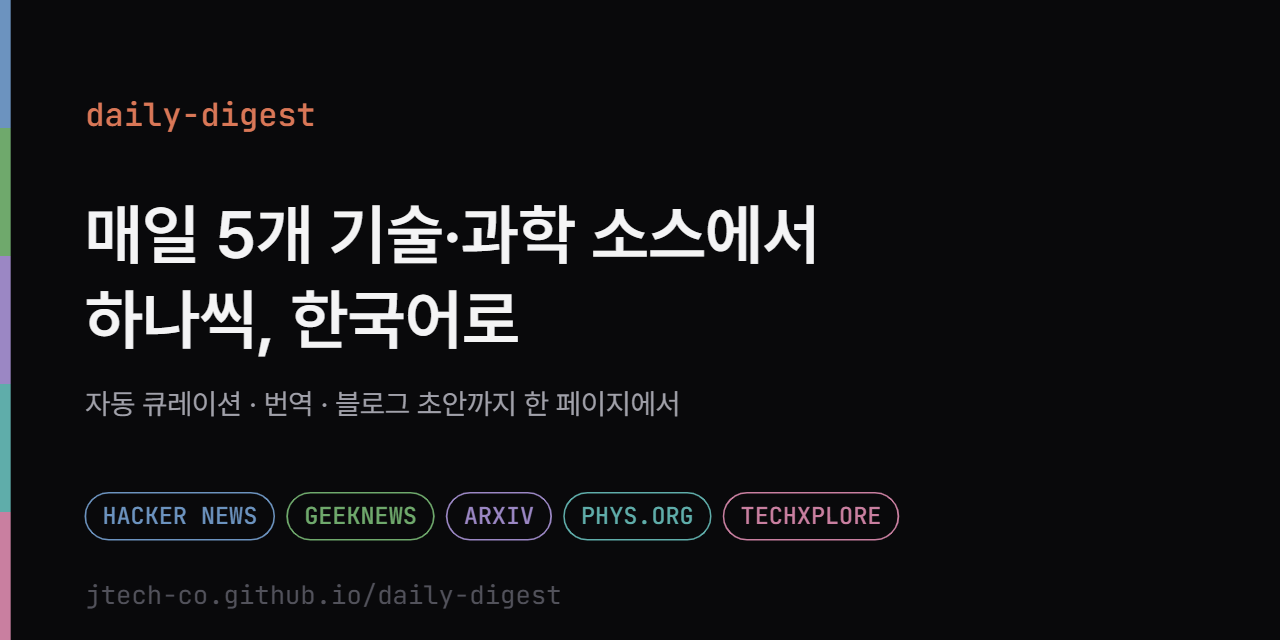
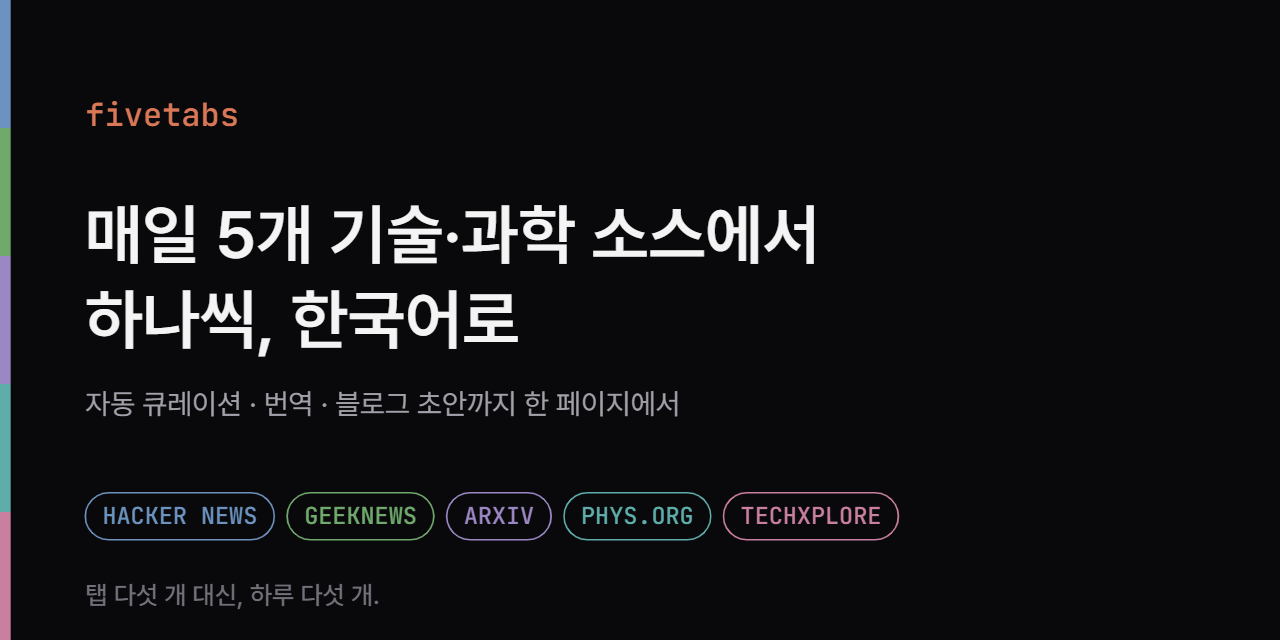
이름 변경: daily-digest -> fivetabs (파이브탭스)
dailydigest.com(미국 뉴스 애그리게이터)이 같은 이름을 브랜드로 쓰고 있고,
dailydigest 도메인은 .com·.kr·.dev가 모두 선점돼 있다. "Daily Digest"는 미국
의회 의사록의 섹션 이름일 만큼 일반 명사라 독점도 어렵지만, 같은 이유로
이 프로젝트도 이 이름으로는 검색·기억되기 어렵다.

이름은 아침마다 띄워 두던 탭 다섯 개를 하루 다섯 개로 줄였다는 뜻.

- 사이트 제목·헤더·OG/피드 이름, 봇 User-Agent, README, package.json
- OG 이미지 두 장을 다시 그렸다. 주소 줄 대신 이름의 뜻을 넣어, 도메인이
  바뀌어도 다시 그릴 필요가 없게 했다.
- README 태그라인의 "데일리 다이제스트"는 "기술 다이제스트"로.

주소(SITE_URL·og:url·README 링크)는 도메인을 정한 뒤 바꾼다. DB 파일명,
워크플로 큐 이름, 저장소 이름 같은 내부 배선은 바꾸면 깨질 위험만 있어 그대로 둔다.

Changed region(s): [[0.0625, 0.9062, 0.4375, 0.9688], [0.0625, 0.1562, 0.25, 0.2188]]

diff --git a/web/index.html b/web/index.html
@@ -3,18 +3,18 @@
 <head>
   <meta charset="utf-8">
   <meta name="viewport" content="width=device-width, initial-scale=1">
-  <title>daily-digest</title>
+  <title>fivetabs</title>
   <meta name="description" content="Hacker News · GeekNews · arXiv · Phys.org · TechXplore 5개 소스 한국어 큐레이션">
   <!-- 공유 카드(OG · Twitter). 이미지는 images/에서 빌드 시 public/images/로 복사된다. -->
   <meta property="og:type" content="website">
-  <meta property="og:site_name" content="daily-digest">
-  <meta property="og:title" content="daily-digest">
+  <meta property="og:site_name" content="fivetabs">
+  <meta property="og:title" content="fivetabs">
   <meta property="og:description" content="매일 5개 기술·과학 소스에서 하나씩, 한국어로">
   <meta property="og:url" content="https://jtech-co.github.io/daily-digest/">
   <meta property="og:image" content="https://jtech-co.github.io/daily-digest/images/og.png">
   <meta property="og:image:width" content="1200">
   <meta property="og:image:height" content="630">
-  <meta property="og:image:alt" content="daily-digest: 매일 5개 기술·과학 소스에서 하나씩, 한국어로">
+  <meta property="og:image:alt" content="fivetabs: 매일 5개 기술·과학 소스에서 하나씩, 한국어로">
   <meta name="twitter:card" content="summary_large_image">
   <!-- 방어 계층(BYOK 사이트). 스크립트는 자기 출처만, 연결은 data.json과 4개 LLM 프로바이더로 제한.
        GitHub Pages는 응답 헤더를 못 붙이므로 meta로 선언한다. -->
@@ -25,14 +25,14 @@
   <link rel="stylesheet" href="https://cdn.jsdelivr.net/gh/orioncactus/pretendard@v1.3.9/dist/web/variable/pretendardvariable-dynamic-subset.min.css">
   <link rel="stylesheet" href="https://fonts.googleapis.com/css2?family=JetBrains+Mono:wght@400;500;600&display=swap">
   <link rel="stylesheet" href="styles.css">
-  <link rel="alternate" type="application/atom+xml" title="daily-digest (Atom)" href="feed.xml">
-  <link rel="alternate" type="application/feed+json" title="daily-digest (JSON Feed)" href="feed.json">
+  <link rel="alternate" type="application/atom+xml" title="fivetabs (Atom)" href="feed.xml">
+  <link rel="alternate" type="application/feed+json" title="fivetabs (JSON Feed)" href="feed.json">
   <!-- FOUC 방지: 저장된 테마를 렌더 전에 적용(외부 파일, CSP script-src 'self') -->
   <script src="theme-init.js"></script>
 </head>
 <body>
   <header class="statusline">
-    <span class="statusline__name">daily-digest</span>
+    <span class="statusline__name">fivetabs</span>
     <nav class="statusline__nav">
       <button id="prevDate" class="datenav__btn" aria-label="이전 날짜">‹</button>
       <time id="currentDate" class="datenav__date"></time>

diff --git a/web/styles.css b/web/styles.css
@@ -1,4 +1,4 @@
-/* daily-digest: 디자인 백서 v0.1 구현
+/* fivetabs: 디자인 백서 v0.1 구현
    다크 기본 + 라이트 전환, 단일 브랜드 액센트(테라코타) + 소스 카테고리 5색. */
 
 /* ── 1. 컬러 토큰 (§1.1, §1.2) ────────────────────────────────── */

diff --git a/web/app.js b/web/app.js
@@ -1,4 +1,4 @@
-// daily-digest 프론트엔드: 디자인 백서 §4, §6 구현
+// fivetabs 프론트엔드: 디자인 백서 §4, §6 구현
 // data.json(빌드 시 DB에서 생성)을 읽어 날짜별 다이제스트를 렌더링한다.
 
 // 소스 식별을 명확히 하기 위해 축약 대신 전체 명칭을 대문자로 표기

diff --git a/README.md b/README.md
@@ -1,8 +1,8 @@
-# daily-digest
+# fivetabs (파이브탭스)
 
-> **매일 5개 기술·과학 소스에서 가장 주목할 글을 하나씩 골라 한국어로 읽는 데일리 다이제스트**
+> **매일 5개 기술·과학 소스에서 가장 주목할 글을 하나씩 골라 한국어로 읽는 기술 다이제스트**
 
-[![daily-digest](images/og.png)](https://jtech-co.github.io/daily-digest/)
+[![fivetabs](images/og.png)](https://jtech-co.github.io/daily-digest/)
 
 **사이트** https://jtech-co.github.io/daily-digest/
 · **구독** [Atom](https://jtech-co.github.io/daily-digest/feed.xml) · [JSON Feed](https://jtech-co.github.io/daily-digest/feed.json)
@@ -10,9 +10,10 @@
 ## 1. 소개 (Introduction)
 
 Hacker News · GeekNews · arXiv · Phys.org · TechXplore를 매일 일일이 훑기는 번거롭습니다.
-**daily-digest**는 이 다섯 소스에서 **하루 소스당 1건**씩 가장 인기 있고 새로운 글을 자동으로 골라
+**fivetabs**는 이 다섯 소스에서 **하루 소스당 1건**씩 가장 인기 있고 새로운 글을 자동으로 골라
 **한국어로 번역·정리**해 한 페이지로 보여줍니다. 매일 09:00 KST에 파이프라인이 돌고 결과는 정적
 사이트로 배포되므로, 읽는 쪽에서 할 일은 [페이지](https://jtech-co.github.io/daily-digest/)를 여는 것뿐입니다.
+이름은 아침마다 띄워 두던 **탭 다섯 개를 하루 다섯 개로** 줄였다는 뜻입니다.
 
 ### 어디에 쓰나
 
